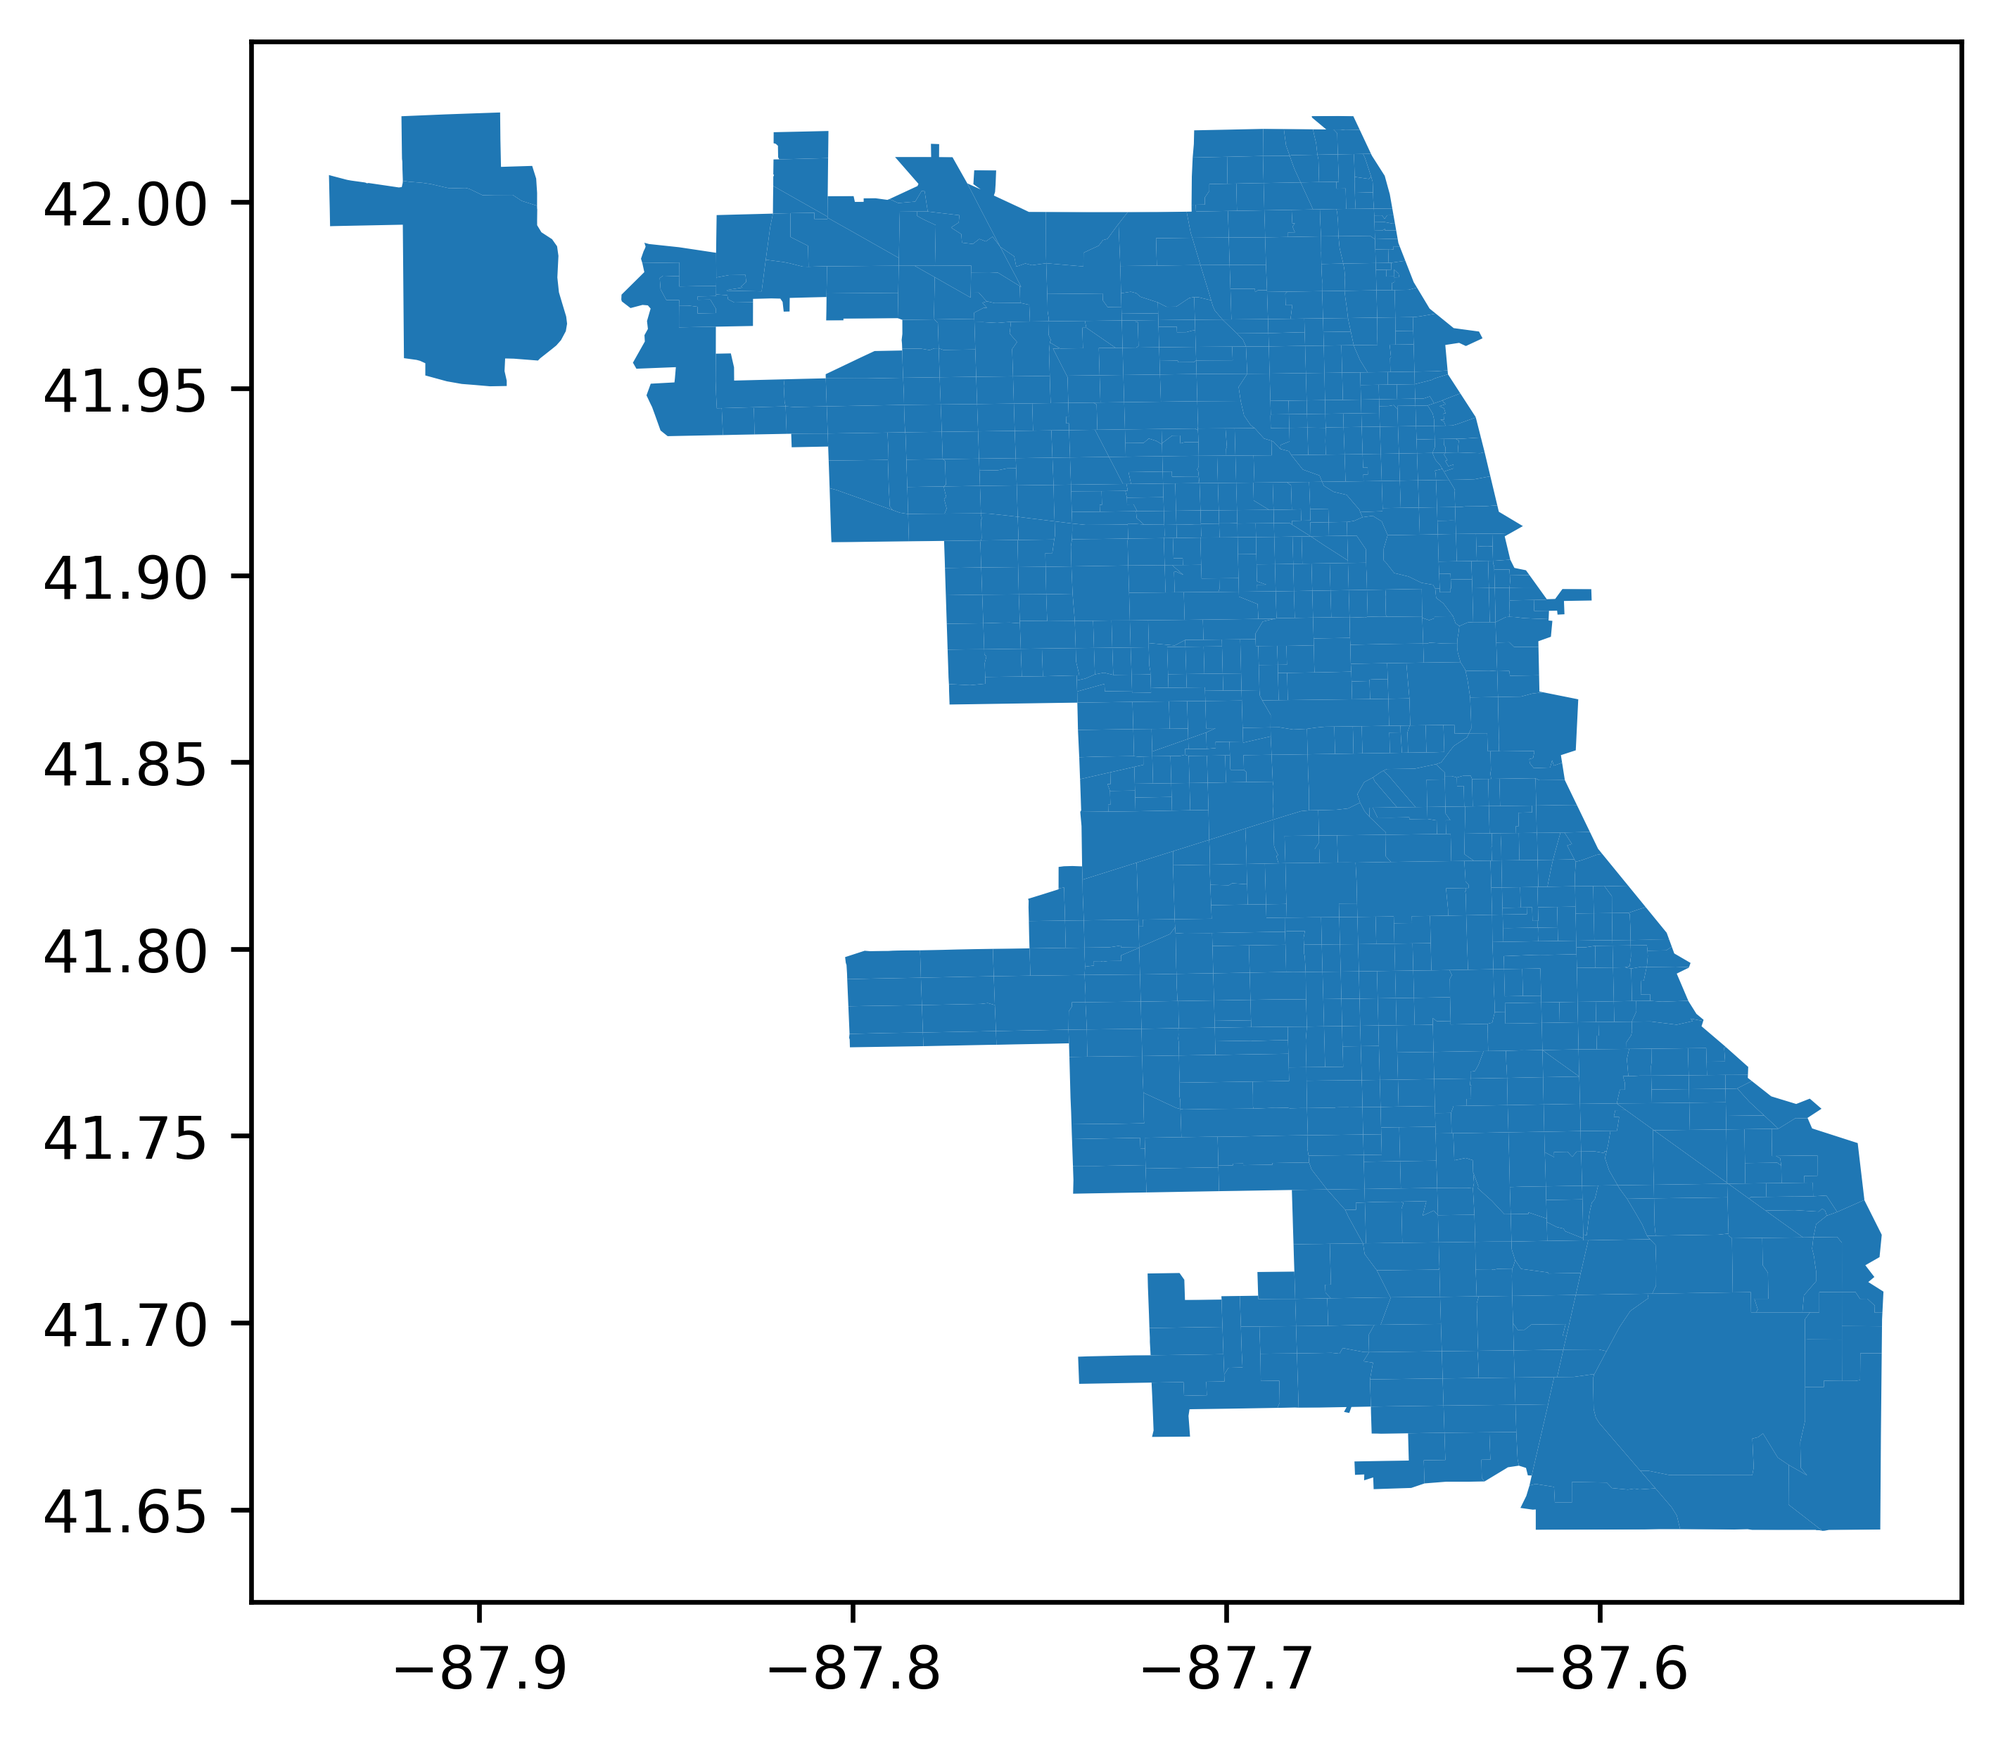
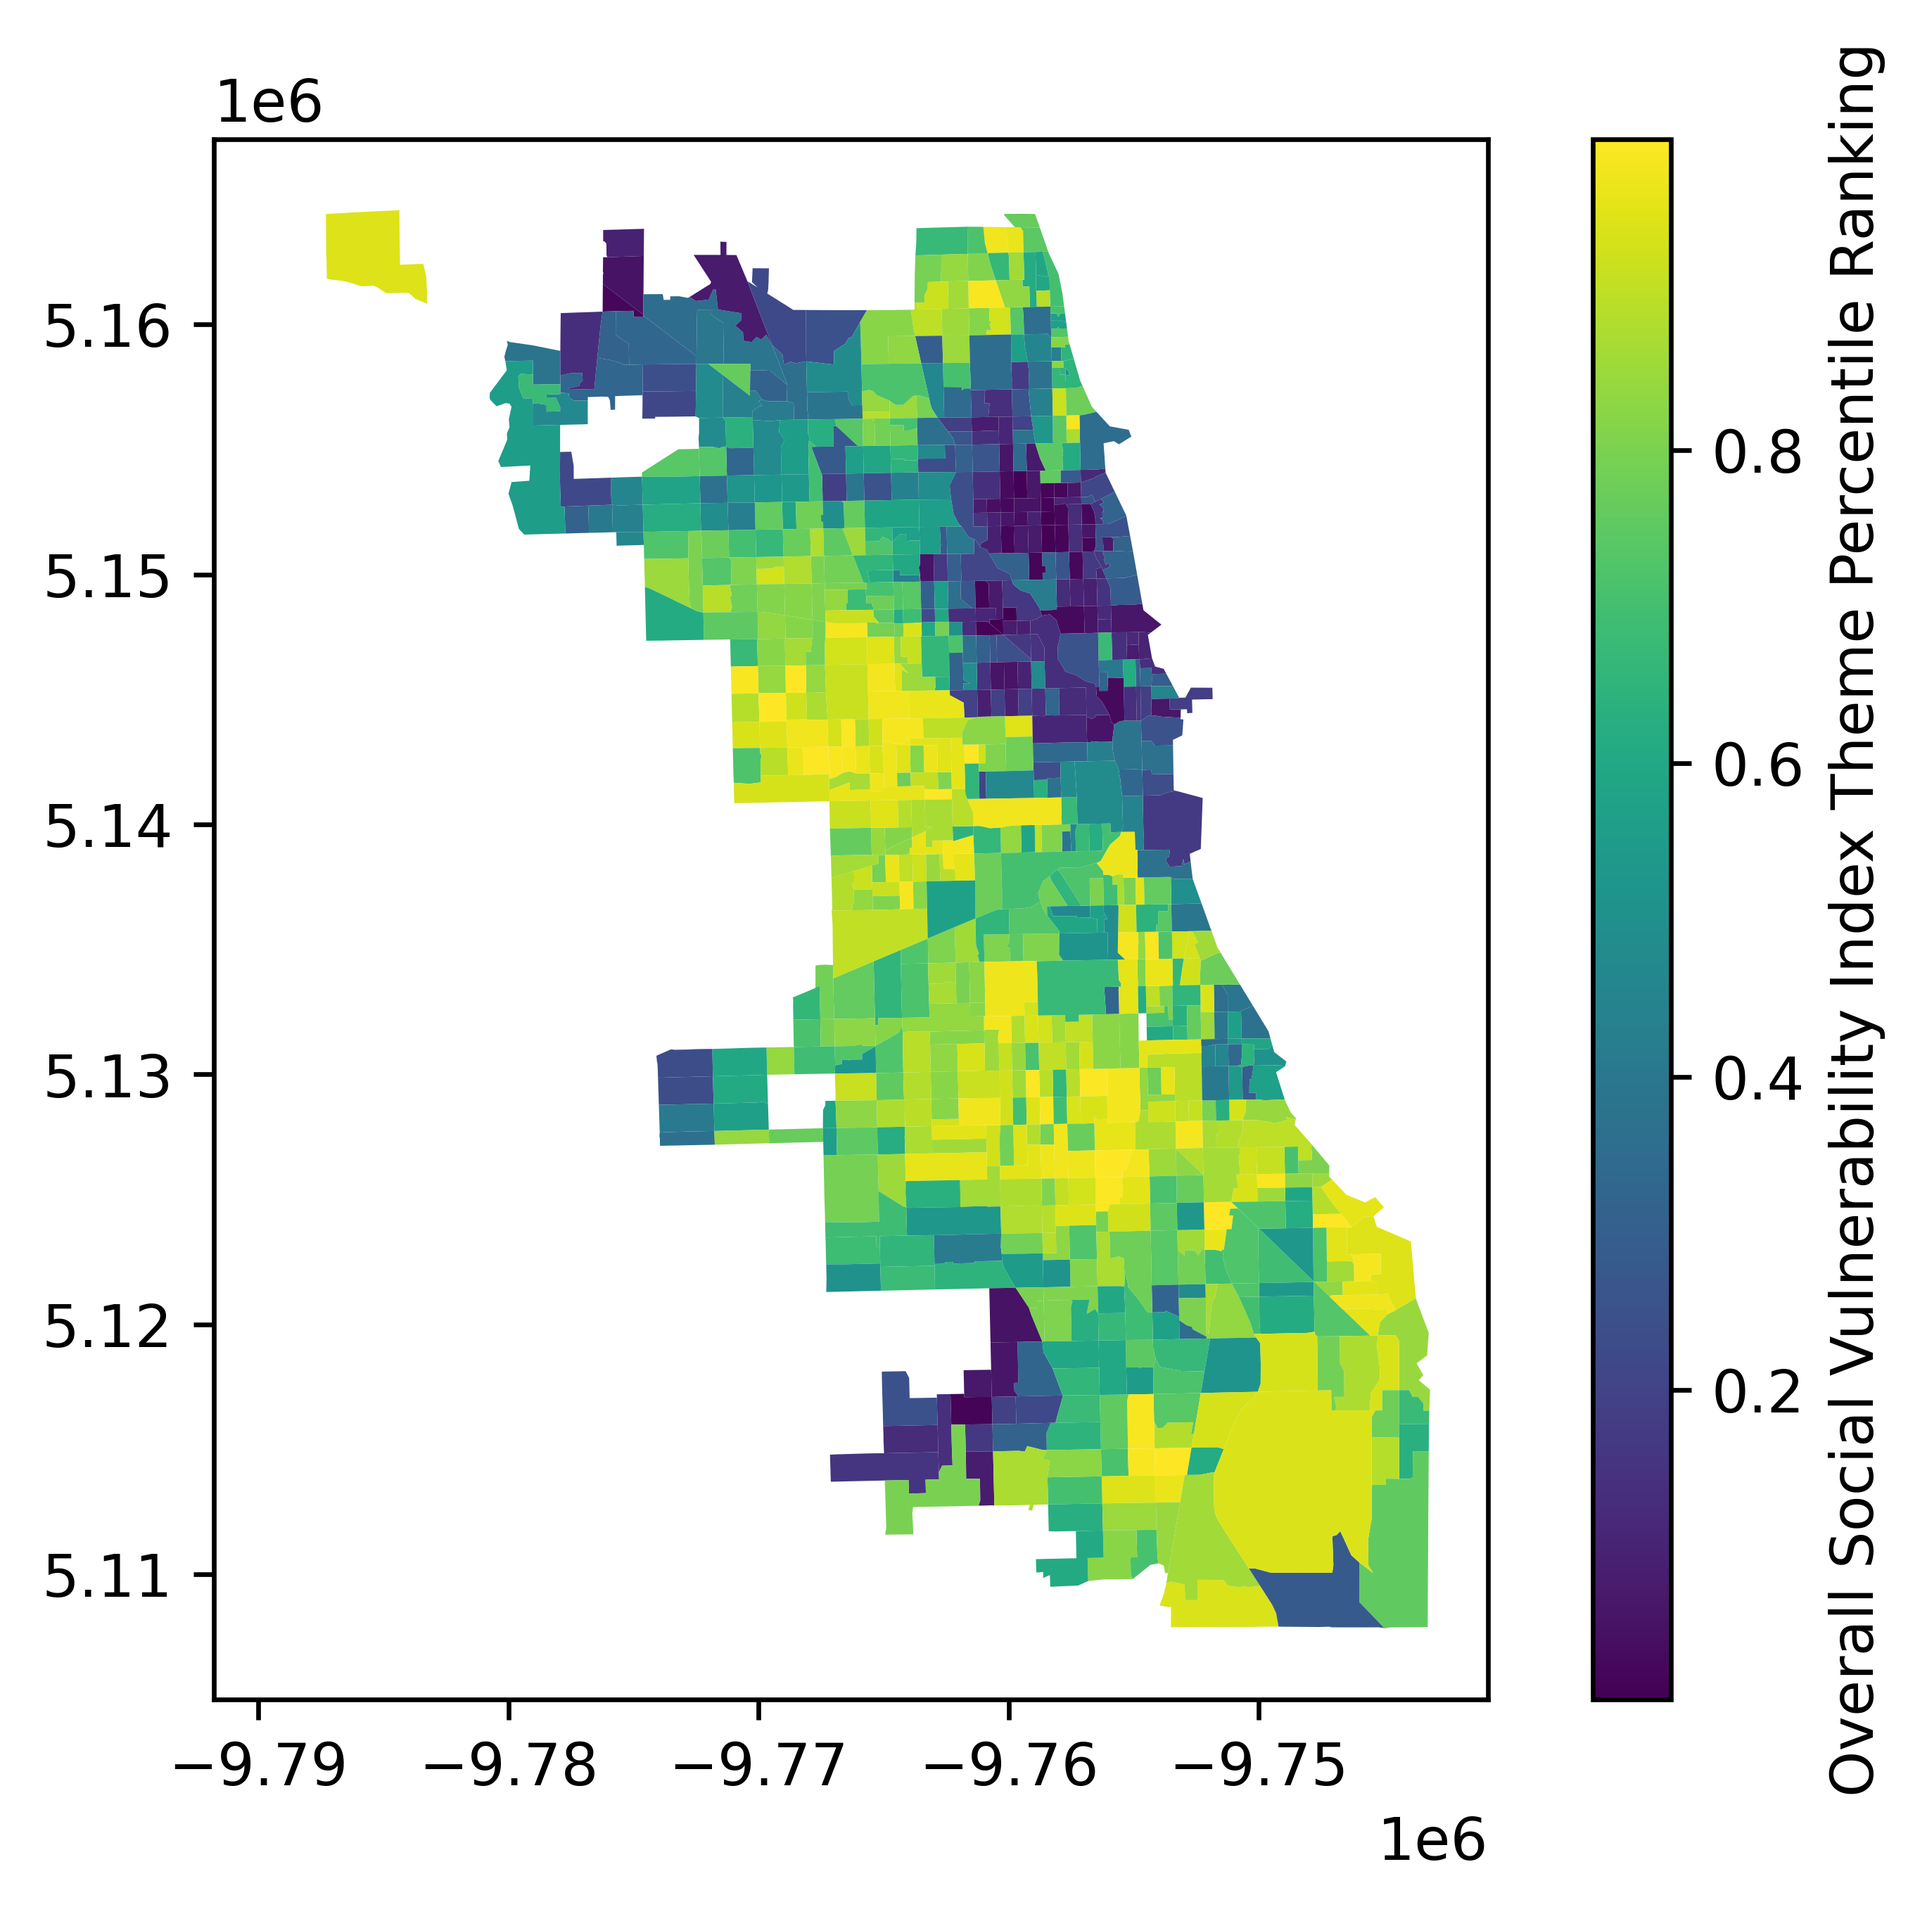
plot overall SVI themes pctile

diff --git a/src/import_svi_data.py b/src/import_svi_data.py
@@ -1,12 +1,33 @@
 import os
+import numpy as np
 import pandas as pd
 import geopandas as gpd
 import matplotlib.pyplot as plt
 
-os.chdir('../')
-CWD = os.getcwd()
+CWD = os.getcwd() # Assuming run from root
 DATADIR = os.path.join(CWD, 'data/supplementary')
+CRS = 'EPSG:3857'
 
+# Define subset of variables to look into
+# Prepend 'E' for estimates, 'M' for margins of error
+# Then, if not absolute numbers, prepend 'P' for percentage, 'PL' for percentile (within IL, not Chicago!)
+# If not a binary category, E = EP generally, but see documentation for details
+# Or, prepend F to flag values in the 90th percentile (again, within IL, not Chicago!)
+SVIVARS = {'TOTPOP': "Population",
+           'HH': "Households",
+           'POV': "Persons below poverty",
+           'UNEMP': "Civillian (age 16+) unemployed",
+           'PCI': "Per capita income",
+           'MINRTY': "Minority (all persons except white, non-Hispanic)",
+           'NOVEH': "Households with no vehicle available",
+           }
+
+SVITHEMES = {'RPL_THEME1': "Percentile ranking for Socioeconomic theme",
+             'RPL_THEME2': "Percentile ranking for Household Composition theme",
+             'RPL_THEME3': "Percentile ranking for Minority Status/Language theme",
+             'RPL_THEME4': "Percentile ranking for Housing Type/Transportation theme",
+             'RPL_THEMES': "Overall percentile ranking",
+             }
 
 def import_svi_data():
     """Import Chicago's SVI data for 2018"""
@@ -15,22 +36,22 @@ def import_svi_data():
     csv_censusTract = os.path.join(DATADIR, 'CensusTracts_2010_Chicago.csv')
     chicagoFIPS = pd.read_csv(csv_censusTract)['GEOID10']
     
-    # Import SVI shapefile
-    shp = os.path.join(DATADIR, "SVI_2018_ILLINOIS_tract/SVI2018_ILLINOIS_tract.shp")
-    data_shp_il = gpd.read_file(shp)
-    data_shp_il['FIPS'] = data_shp_il['FIPS'].astype(int)
+    # Import SVI shapefile as GeoDataFrame
+    f_shp = os.path.join(DATADIR, "SVI_2018_ILLINOIS_tract/SVI2018_ILLINOIS_tract.shp")
+    gdf = gpd.read_file(f_shp).to_crs(CRS) # Original is epsg:4269
+    gdf.replace(-999, np.nan, inplace=True)
+    gdf['FIPS'] = gdf['FIPS'].astype(int)
     
     # Select Chicago data only
-    data_shp = data_shp_il.loc[data_shp_il['FIPS'].isin(chicagoFIPS)]
+    gdf = gdf.loc[gdf['FIPS'].isin(chicagoFIPS)]
     
-    # Plot geographic data for confirmation
-    data_shp.plot()
-    plt.savefig('figures/census_tracts_chicago.png', bbox_inches='tight', dpi=300)
+    # Plot a key metric for confirmation
+    gdf.plot(column='RPL_THEMES',
+             legend=True,
+             legend_kwds={'label': "Overall Social Vulnerability Index Theme Percentile Ranking"})
+    plt.savefig('figures/census_tracts_chicago.png', bbox_inches='tight', dpi=600)
     
-    return data_shp
-
-
-# TODO: import list of Chicago AirNow sensors
+    return gdf
 
 
 if __name__ == "__main__":
